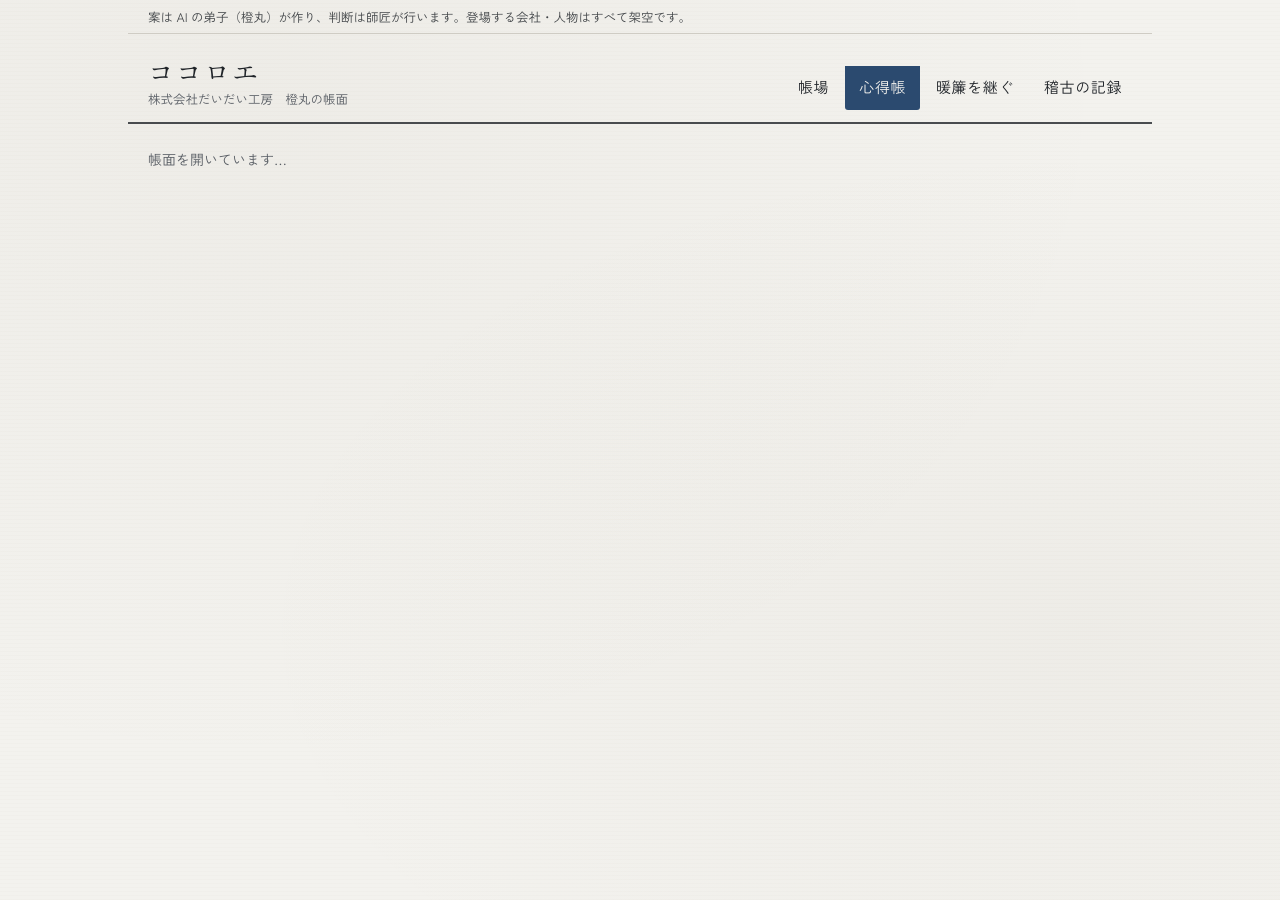
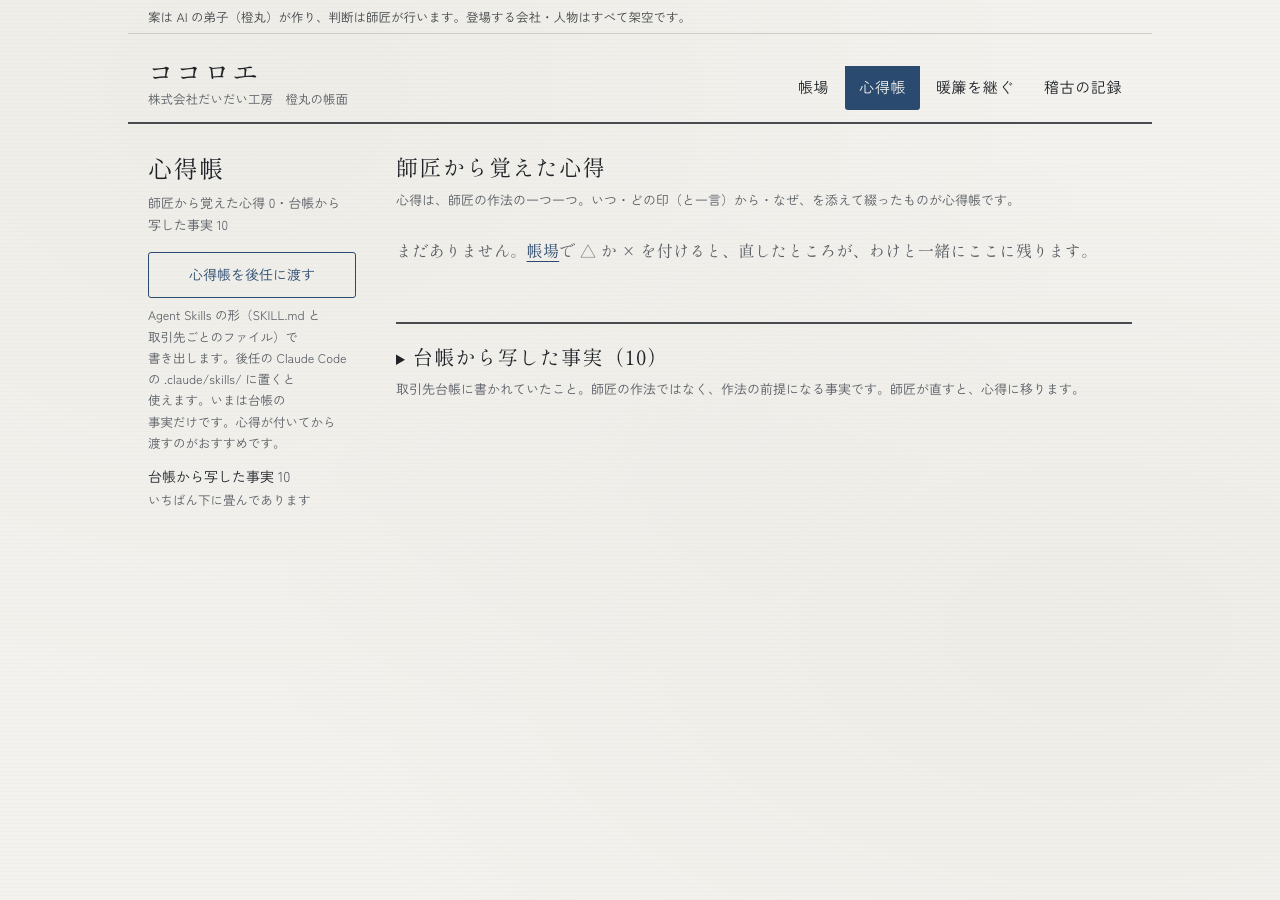
画面の目 40: public v5 path — 心得帳/暖簾を継ぐ were only shot too early (0.4 s to content, re-shot); home tells judges to enter the code before starting (only when a code is set and not entered)

diff --git a/app/page.tsx b/app/page.tsx
@@ -63,6 +63,10 @@ export default async function Home(props: PageProps<"/">) {
             <p className="text-[14px] text-sumi">心得帳は空から。あなたの印だけで弟子を育てます。</p>
           </form>
         </div>
+        {/* ui-critic 11/7 on the public site: the code field sits at the bottom; a judge may press a start button first. */}
+        {live && judgeEnabled() && !(await isJudgeRequest()) && (
+          <p className="mt-2 max-w-[32em] text-[13px] text-nibi">審査員の方は、先にこのページのいちばん下の「審査用のコード」を入れてください。</p>
+        )}
         {fieldEnabled() && (
           <form action={start} className="mt-4">
             <input type="hidden" name="mode" value="field" />

diff --git a/docs/ui-polish-log.md b/docs/ui-polish-log.md
@@ -2094,3 +2094,13 @@ evaluation reads are unchanged.
 - 審査用のコードは `openssl rand -hex 12`（24字の 0-9a-f、Kento の指定）。Kento に一度だけ見せた。リポジトリ・ログ・決定記録には書いていない。
 - 公開の URL で確かめた（`docs/screens/public-v5-*.png`）: 4つの画面が 200、知らない頁は 404、AI の帯、審査用のコードの欄が出る、コードが通る、お試しの最初の案がライブで 6.7 秒（審査員の枠で1枚だけ）。
 - つまずき: push で Podman のソケットのパスが空になった（`podman machine inspect` に名前を付けずに書式を使ったため）。名前を付けて取り直して通った。`docs/deploy.md` に書いた。
+
+## A. 画面の目（ui-critic 40回目、11/7 05:23。公開版（作り直し後、`:kokoroe.web.5`）の審査員の道筋。`docs/screens/public-v5-*.png`）
+
+- **見つけたこと:**
+  1. 心得帳と暖簾を継ぐの写真が「帳面を開いています…」のままだった。→ 公開の URL で確かめ直すと、どちらも 0.4 秒で中身が出た。写真を撮るのが早すぎただけで、不具合ではない。待ってから撮り直した。
+  2. 審査用のコードの欄はページのいちばん下にあり、審査員が先に「師匠になって試す」を押して、コードを入れないまま進むおそれがある。
+  3. 「お試し 0 / 40 件 済み」の空白。
+  4. 「判定は、ここを見て。」がくだけた言い方。
+- **直したこと（`app/page.tsx`）:** 2。公開版でコードが設定され、まだ入れていないブラウザにだけ、「始め方」の下に「審査員の方は、先にこのページのいちばん下の「審査用のコード」を入れてください。」を出す。手元の開発サーバー（127.0.0.1、使い捨てのコード、API なし）で出ることを確かめ、止めた。公開版に届くのは二度目の作り直しのとき。テスト 318 件、tsc と lint が通った。
+- **直さなかったこと:** 3（小さすぎる）。4（帳場の段取りの見出しで、s05 に映る）。

diff --git a/docs/HANDOFF.md b/docs/HANDOFF.md
@@ -3,7 +3,7 @@
 A new session (even on another account) starts here. It remembers nothing; this file, `CLAUDE.md` and the logs are the memory.
 Updated at the end of every round.
 
-## Where things stand (updated 2026-11-07 05:25 JST)
+## Where things stand (updated 2026-11-07 05:35 JST)
 
 - Branches: work on `ui-polish`; after each round merge to `main` (`--no-ff`) and push both (normal push, never force).
 - Commit author must stay the repository setting: `ikenyal` / the GitHub noreply address (`git config user.email` shows it).
@@ -19,8 +19,8 @@ Updated at the end of every round.
 - Public site: deployment 5 (`:kokoroe.web.5`, main `733dfbf`) since 11/7 05:16, with the judges' lane on. A second rebuild
   after 11/7's final version (Kento's OK; a new judge code only if Kento asks — the current one is already in his hands).
 - Console: workspace `kokoroe-public` has a $100/month cap (alert at $50); Kento set it.
-- Last round: public rebuild (05:16) and Kento's items 27/28 (README quote, no 「すぐ」).
-  Next eye: A, then B, C, D until 07:00; then the final freeze report.
+- Last round: A 40 (05:23) — public v5 path checked; home now tells judges to enter the code first (reaches the public site at the 2nd rebuild).
+  Next eye: B, then C, D until 07:00; then the final freeze report.
 - API spent on rounds: 11/6 since 18:00 about $0.61; 11/7 from 00:00: about $0.30 so far (cap $5 for rounds; eval:final ≈ $9.75 is separate and needs Kento's go).
 
 ## The 15-minute rotation
